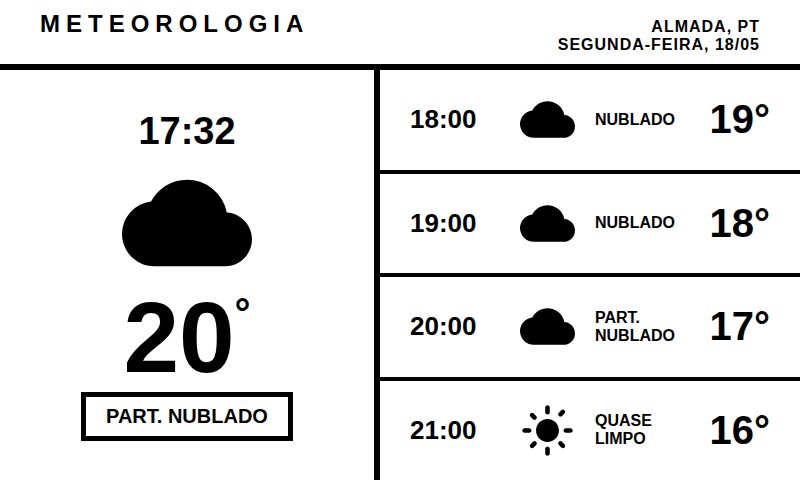
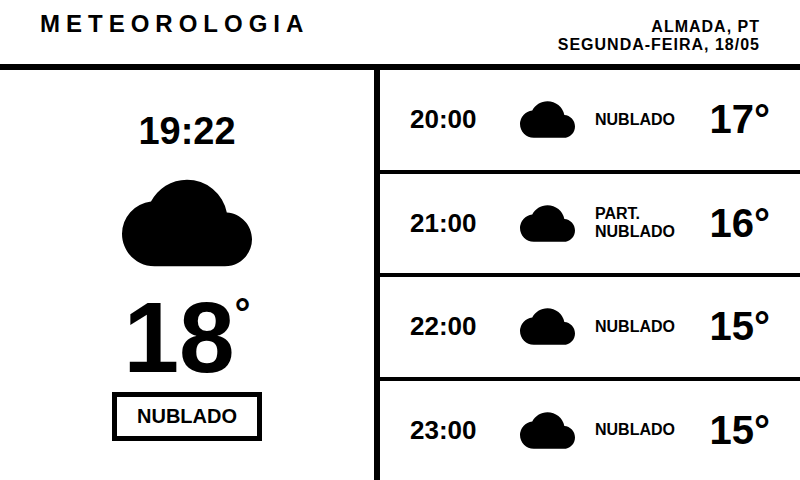
chore: atualiza imagem TRMNL

diff --git a/index.html b/index.html
@@ -53,38 +53,38 @@
 </div>
 <div class="main" id="main-content">
   <div class="current">
-    <div class="current-time">17:32</div>
+    <div class="current-time">19:22</div>
     <div id="cur-icon"><div style="width:130px"><svg viewBox="0 0 24 24" fill="black"><path d="M19.35 10.04A7.49 7.49 0 0012 4C9.11 4 6.6 5.64 5.35 8.04A5.994 5.994 0 000 14c0 3.31 2.69 6 6 6h13c2.76 0 5-2.24 5-5 0-2.64-2.05-4.78-4.65-4.96z"/></svg></div></div>
-    <div class="current-temp">20<sup>°</sup></div>
+    <div class="current-temp">18<sup>°</sup></div>
     <div class="current-desc-box">
-      <div class="current-desc">Part. Nublado</div>
+      <div class="current-desc">Nublado</div>
     </div>
   </div>
   <div class="hours" id="hours-list">
     
       <div class="hour-card">
-        <div class="hour-time">18:00</div>
-        <div class="hour-icon" style="width:55px"><svg viewBox="0 0 24 24" fill="black"><path d="M19.35 10.04A7.49 7.49 0 0012 4C9.11 4 6.6 5.64 5.35 8.04A5.994 5.994 0 000 14c0 3.31 2.69 6 6 6h13c2.76 0 5-2.24 5-5 0-2.64-2.05-4.78-4.65-4.96z"/></svg></div>
-        <div class="hour-desc">Nublado</div>
-        <div class="hour-temp">19°</div>
-      </div>
-      <div class="hour-card">
-        <div class="hour-time">19:00</div>
-        <div class="hour-icon" style="width:55px"><svg viewBox="0 0 24 24" fill="black"><path d="M19.35 10.04A7.49 7.49 0 0012 4C9.11 4 6.6 5.64 5.35 8.04A5.994 5.994 0 000 14c0 3.31 2.69 6 6 6h13c2.76 0 5-2.24 5-5 0-2.64-2.05-4.78-4.65-4.96z"/></svg></div>
-        <div class="hour-desc">Nublado</div>
-        <div class="hour-temp">18°</div>
-      </div>
-      <div class="hour-card">
         <div class="hour-time">20:00</div>
         <div class="hour-icon" style="width:55px"><svg viewBox="0 0 24 24" fill="black"><path d="M19.35 10.04A7.49 7.49 0 0012 4C9.11 4 6.6 5.64 5.35 8.04A5.994 5.994 0 000 14c0 3.31 2.69 6 6 6h13c2.76 0 5-2.24 5-5 0-2.64-2.05-4.78-4.65-4.96z"/></svg></div>
-        <div class="hour-desc">Part. Nublado</div>
+        <div class="hour-desc">Nublado</div>
         <div class="hour-temp">17°</div>
       </div>
       <div class="hour-card">
         <div class="hour-time">21:00</div>
-        <div class="hour-icon" style="width:55px"><svg viewBox="0 0 24 24" fill="black"><path d="M12 7c-2.76 0-5 2.24-5 5s2.24 5 5 5 5-2.24 5-5-2.24-5-5-5zM2 13h2c.55 0 1-.45 1-1s-.45-1-1-1H2c-.55 0-1 .45-1 1s.45 1 1 1zm18 0h2c.55 0 1-.45 1-1s-.45-1-1-1h-2c-.55 0-1 .45-1 1s.45 1 1 1zM11 2v2c0 .55.45 1 1 1s1-.45 1-1V2c0-.55-.45-1-1-1s-1 .45-1 1zm0 18v2c0 .55.45 1 1 1s1-.45 1-1v-2c0-.55-.45-1-1-1s-1 .45-1 1zM5.99 4.58a.996.996 0 00-1.41 0 .996.996 0 000 1.41l1.06 1.06c.39.39 1.03.39 1.41 0s.39-1.03 0-1.41L5.99 4.58zm12.37 12.37a.996.996 0 00-1.41 0 .996.996 0 000 1.41l1.06 1.06c.39.39 1.03.39 1.41 0s.39-1.03 0-1.41l-1.06-1.06zm1.06-12.37a.996.996 0 000-1.41.996.996 0 00-1.41 0l-1.06 1.06c-.39.39-.39 1.03 0 1.41s1.03.39 1.41 0l1.06-1.06zM7.05 18.36a.996.996 0 000-1.41.996.996 0 00-1.41 0l-1.06 1.06c-.39.39-.39 1.03 0 1.41s1.03.39 1.41 0l1.06-1.06z"/></svg></div>
-        <div class="hour-desc">Quase limpo</div>
+        <div class="hour-icon" style="width:55px"><svg viewBox="0 0 24 24" fill="black"><path d="M19.35 10.04A7.49 7.49 0 0012 4C9.11 4 6.6 5.64 5.35 8.04A5.994 5.994 0 000 14c0 3.31 2.69 6 6 6h13c2.76 0 5-2.24 5-5 0-2.64-2.05-4.78-4.65-4.96z"/></svg></div>
+        <div class="hour-desc">Part. Nublado</div>
         <div class="hour-temp">16°</div>
+      </div>
+      <div class="hour-card">
+        <div class="hour-time">22:00</div>
+        <div class="hour-icon" style="width:55px"><svg viewBox="0 0 24 24" fill="black"><path d="M19.35 10.04A7.49 7.49 0 0012 4C9.11 4 6.6 5.64 5.35 8.04A5.994 5.994 0 000 14c0 3.31 2.69 6 6 6h13c2.76 0 5-2.24 5-5 0-2.64-2.05-4.78-4.65-4.96z"/></svg></div>
+        <div class="hour-desc">Nublado</div>
+        <div class="hour-temp">15°</div>
+      </div>
+      <div class="hour-card">
+        <div class="hour-time">23:00</div>
+        <div class="hour-icon" style="width:55px"><svg viewBox="0 0 24 24" fill="black"><path d="M19.35 10.04A7.49 7.49 0 0012 4C9.11 4 6.6 5.64 5.35 8.04A5.994 5.994 0 000 14c0 3.31 2.69 6 6 6h13c2.76 0 5-2.24 5-5 0-2.64-2.05-4.78-4.65-4.96z"/></svg></div>
+        <div class="hour-desc">Nublado</div>
+        <div class="hour-temp">15°</div>
       </div>
   </div>
 </div>
